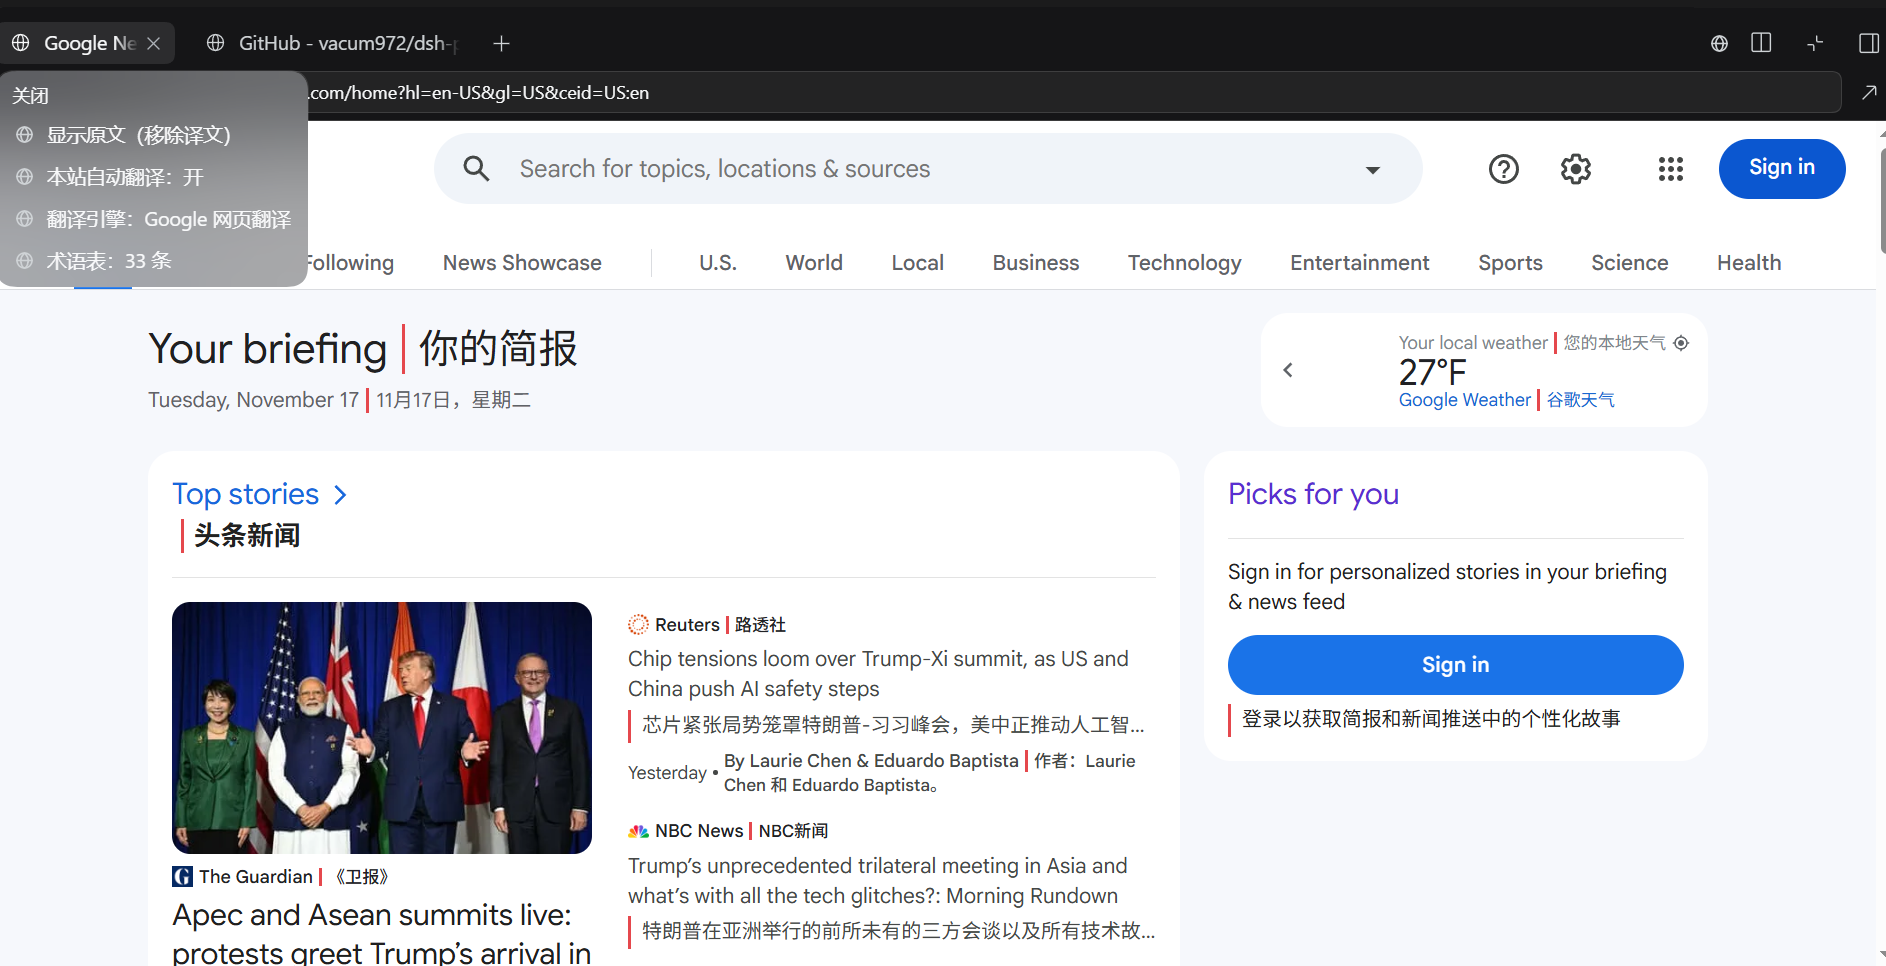
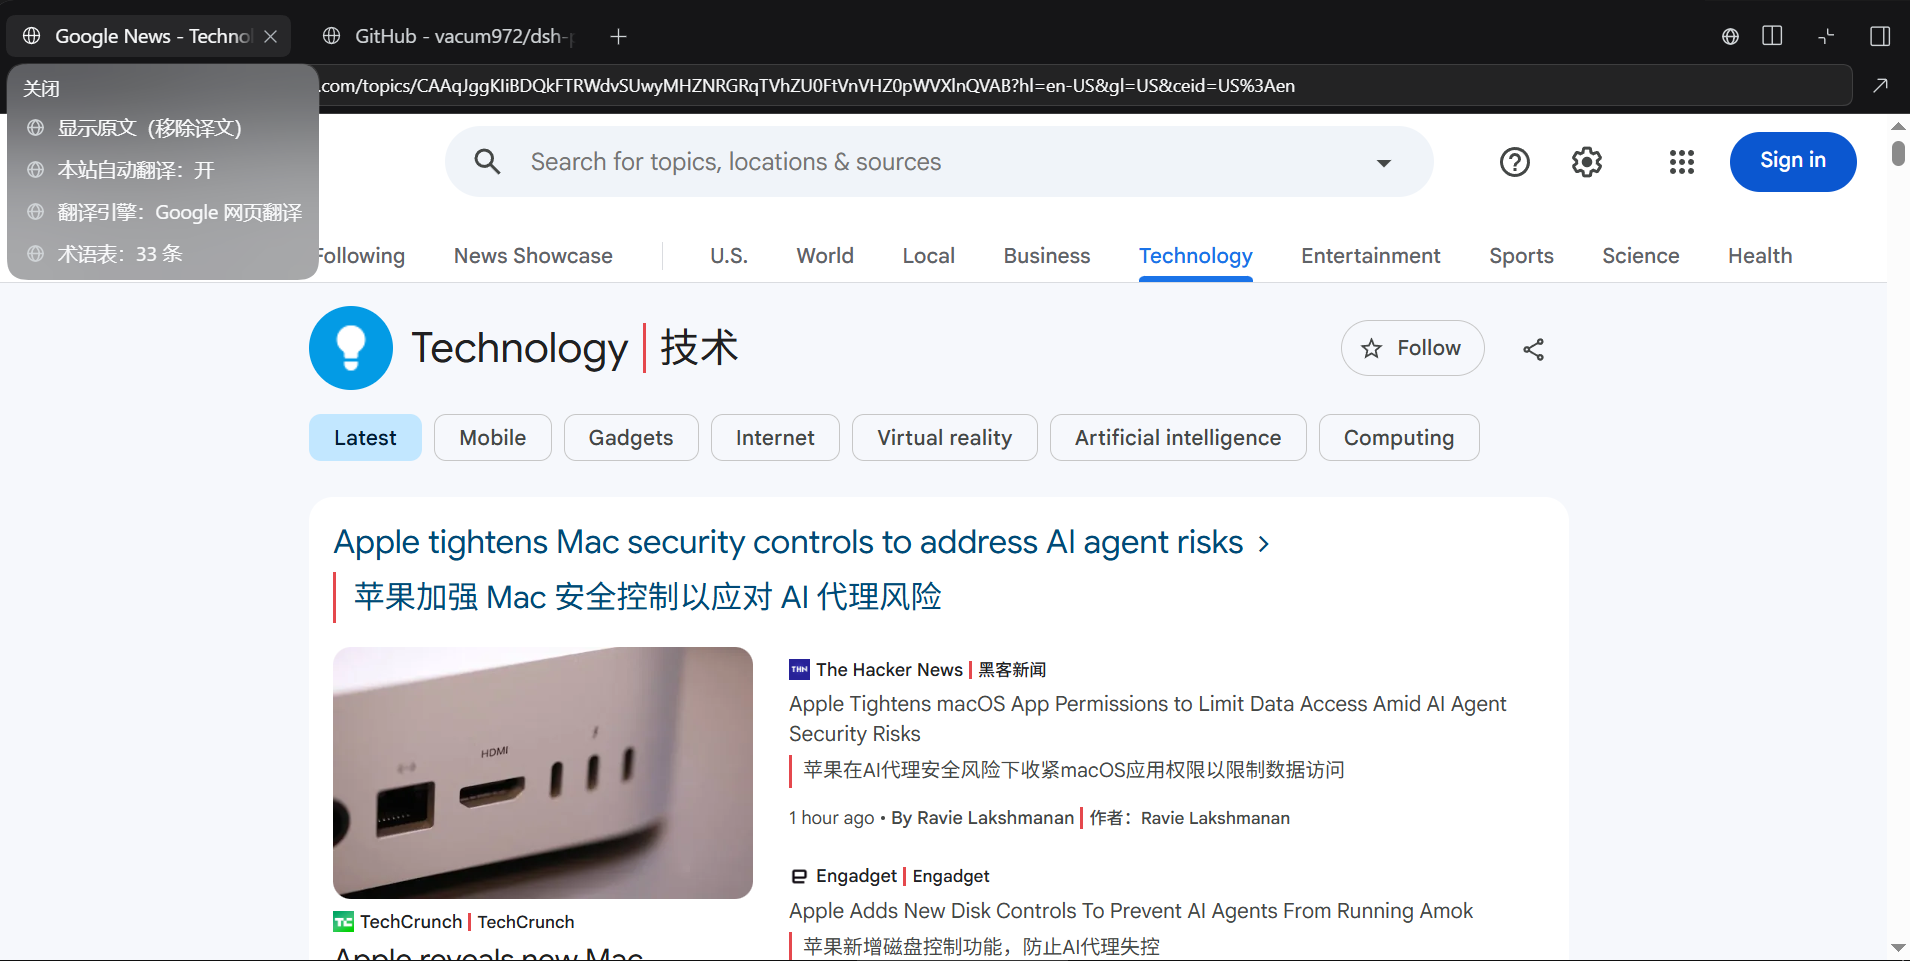
docs: use the Technology topic screenshot as the hero image (v0.3.2)

diff --git a/README.md b/README.md
@@ -8,12 +8,13 @@
 适合读英文文档、GitHub README / Issue、新闻站点、技术博客——尤其是那些**正文长、导航多**的页面。
 
 <p align="center">
-  <img src="assets/screenshots/01-bilingual-google-news.png" width="860" alt="Google News 整页双语对照：原文保留，译文插在标题与段落下方">
+  <img src="assets/screenshots/01-bilingual-google-news.png" width="860" alt="Google News Technology 主题页的双语对照：英文标题下插入中文译文">
 </p>
 
-> 上图：Google News 翻译后的双语对照——短标题/标签同行追加（`Your briefing | 你的简报`），长段落另起一行
-> 带红色起始竖线；标签「…」菜单里依次是 **显示原文**、**本站自动翻译**、**翻译引擎（当前 Google 网页翻译）**
-> 与 **术语表（33 条）**，截图时正在翻译共 131 段。
+> 上图：Google News 的 Technology 主题页——分类标题 `Technology | 技术`、新闻标题与摘要都在原文下插入中文译文
+> （长标题另起一行带红色起始竖线，短标签如来源/署名同行追加）；标签「…」菜单里依次是 **显示原文**、
+> **本站自动翻译**、**翻译引擎（当前 Google 网页翻译，点击可循环切换主题感知/Google/Bing）**
+> 与 **术语表（33 条）**。
 
 ## 30 秒装上
 
